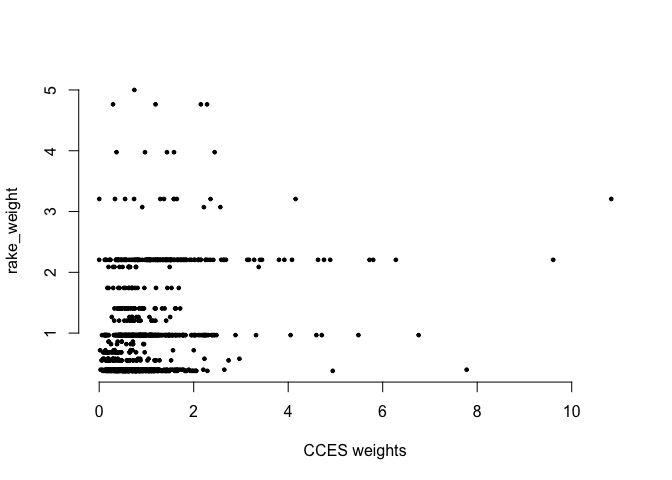
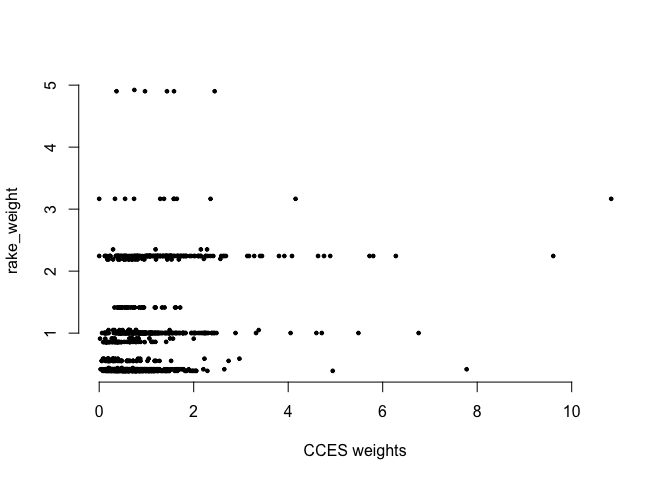
Adjust raking

diff --git a/README.md b/README.md
@@ -1,7 +1,7 @@
 
 <!-- README.md is generated from README.Rmd. Please edit that file -->
 
-# Overview to Modern Survey Weighting
+# Overview of Modern Survey Weighting
 
 *Shiro Kuriwaki*
 
@@ -95,11 +95,11 @@ Q: What is the distribution of race and education in the survey.
 Now suppose you did NOT know the population *joint* distribution of race
 x education, but you knew the *marginals*. Suppose that
 
--   White: 70%
--   Black: 12%
--   Hispanic: 8%
--   Asian: 4%
--   Other 6%
+-   White (1): 72%
+-   Black (2): 12%
+-   Hispanic (3) : 10%
+-   Asian (4): 3%
+-   Other (5): 3%
 
 and
 
@@ -114,20 +114,11 @@ Q: What are some issues with doing poststratiifcation everywhere?
 
 ## Increased Variance Due to Weighting / Design Effect
 
-Mean Square Error formula
-
 Q: What do you need to compute the MSE (or RMSE) of an estimate? What
 are the components?
 
 Q: Does weighting tend to increase or decrease the standard error of the
 estimator? The effective sample size? The design effect? Why?
-
-Kish’s design effect
-
-    #> [1] 627.6017
-    #> [1] 1.593367
-    #> [1] 0.5939613
-    #> [1] 1.593367
 
 ## How is MRP Different?
 
@@ -144,8 +135,8 @@ tgt_fct <- pop_fct %>%
   count(educ, race)
 ```
 
-Q: What are the predicted values of the outcome in each of the
-poststratification cells?
+Q: Using a logit, what are the predicted values of the outcome in each
+of the poststratification cells?
 
     #> # A tibble: 20 x 4
     #>    educ         race          n      Ypred
@@ -178,7 +169,7 @@ Q: What is the “MRP” estimate for Y in the population then?
     #>   <dbl>
     #> 1 0.412
 
-Shrinkage
+Q: What are the issues with a simple logit?
 
 ## Propensity Score (IPW) vs. Balancing Score
 
@@ -188,25 +179,26 @@ score.
     #> # A tibble: 10 x 4
     #>    ID     race     educ          Spred
     #>    <chr>  <fct>    <fct>         <dbl>
-    #>  1 277129 White    HS or Less   0.0903
-    #>  2 283996 White    Some College 0.118 
-    #>  3 313593 White    HS or Less   0.0683
-    #>  4 287316 White    4-Year       0.160 
-    #>  5 269237 White    Post-Grad    0.175 
-    #>  6 283855 Hispanic Some College 0.101 
-    #>  7 321041 White    Post-Grad    0.155 
-    #>  8 303332 White    HS or Less   0.0683
-    #>  9 278751 White    4-Year       0.157 
-    #> 10 277020 White    HS or Less   0.0563
+    #>  1 268448 White    Some College 0.0986
+    #>  2 303033 White    Some College 0.0817
+    #>  3 281458 White    Some College 0.0993
+    #>  4 305564 White    HS or Less   0.122 
+    #>  5 279835 White    HS or Less   0.0896
+    #>  6 319874 White    HS or Less   0.0634
+    #>  7 273231 Black    Post-Grad    0.161 
+    #>  8 311155 Hispanic Some College 0.0798
+    #>  9 265916 White    HS or Less   0.0517
+    #> 10 271471 White    Some College 0.0993
 
-Q: What are the issues in Propensity Score
+Q: What are the issues in Propensity Score?
 
-Links to Causal Inference and the Weighting vs. Matching Distinction
+Note: Links to Causal Inference and the Weighting vs. Matching
+Distinction
 
 -   Coarsened Exact Matching
 -   Balance Test Fallacy
 
-Balancing Scores: Entropy Balancing / CBPS
+Note: Balancing Scores: Entropy Balancing / CBPS
 
 # Takeaways
 
